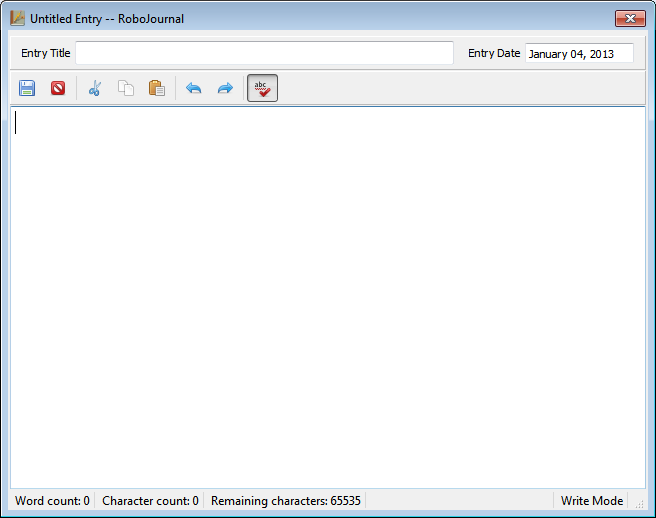
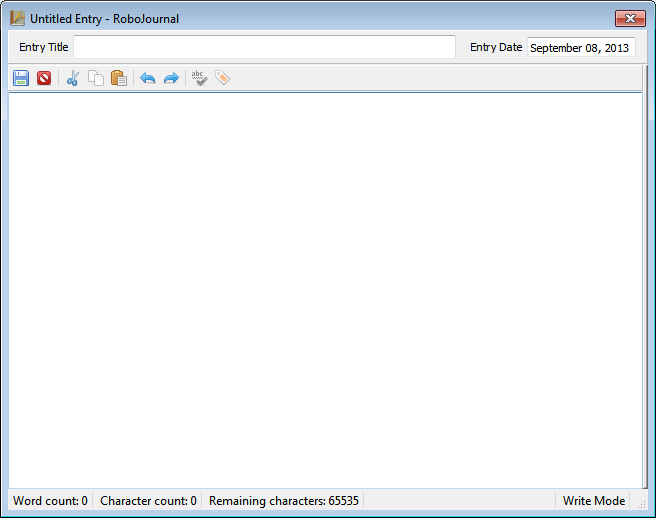
updated items on RoboJournal Fundamentals documentation

Changed region(s): [[0.0, 0.0309, 1.0, 0.9575], [0.0, 0.9575, 0.5488, 0.9884], [0.8537, 0.9575, 0.9756, 0.9884]]

diff --git a/doc/fundamentals.html b/doc/fundamentals.html
@@ -16,7 +16,9 @@
 <div class="content">
 <img src="img/rj_doc_header.png" alt="RoboJournal Documentation"
 class="masthead" height="72" width="606"> 
+
 <p class="doc_version">for version 0.5</p>
+
 <div class="menu">
 <ul>
   <li onclick="javascript:history.go(-1)" class="backbutton">&lt; Back</li>
@@ -64,7 +66,7 @@ displayed:</p>
 
 <p><img alt="RoboJournal Main Window in Default State"
 src="img/screens/mainwindow_default.png" class="screenshot" height="589"
-width="753"><span class="caption_wide">Figure 1: RoboJournal's main window in
+width="750"><span class="caption_wide">Figure 1: RoboJournal's main window in
 "Default State".</span></p>
 
 <p>The initial configuration of the main window (immediately after starting the
@@ -308,7 +310,7 @@ it far easier to keep track of and work with multiple databases.</p>
 <p>To initiate a new connection, click the Connect toolbar button (indicated by
 the red circle in Figure 3). The New Connection dialog is displayed:<br>
 <img alt="Figure 3" src="img/screens/login1.png" class="screenshot"
-height="590" width="753"><span class="caption_wide">Figure 3: New Connection
+height="590" width="752"><span class="caption_wide">Figure 3: New Connection
 Dialog (in MySQL mode).</span> </p>
 
 <p>The New Connection dialog in RoboJournal 0.5 and later consists of a tabbed
@@ -418,7 +420,7 @@ disconnecting first.</p>
 circle in Figure 5) to proceed:</p>
 
 <p><img alt="Figure 5" src="img/screens/mw_disconnect1.png" class="screenshot"
-height="589" width="753"><span class="caption">Figure 5: The
+height="589" width="750"><span class="caption">Figure 5: The
 <strong>Disconnect</strong> toolbar button immediately terminates the current
 connection.</span></p>
 
@@ -444,15 +446,19 @@ close to reaching it. Therefore, feel free to write as often as you want. </p>
   <li>Click the <strong>Write in Journal</strong> toolbar button on the
     RoboJournal main window.<img alt="Figure 6"
     src="img/screens/mw_new_entry.png" class="screenshot" height="589"
-    width="753"><span class="caption">Figure 6: Click the <strong>Write in
+    width="750"><span class="caption">Figure 6: Click the <strong>Write in
     Journal</strong> button (indicated in red).</span></li>
   <li>The Editor dialog is displayed:<img alt="Figure 6"
     src="img/screens/editor_new_entry.png" class="screenshot" height="518"
     width="656"><span class="caption">Figure 7: RoboJournal Editor dialog in
     Write (new entry) Mode.</span></li>
-  <li>Enter a title for this entry in the <strong>Entry Title</strong>
-  field.</li>
-  <li>Write the body text for this entry in the large text area. 
+  <li>Enter a title for this entry in the <strong>Entry Title</strong> field.
+    As you type, the Editor window title bar changes from "Untitled Entry" to
+    match whatever text the <strong>Entry Title</strong> field currently
+    contains.</li>
+  <li>Write the body text for this entry in the large text area. Paragraphs
+    should be separated by whitespace (one empty line). Indenting the first
+    line of each paragraph is optional. 
 
     <div class="FYI">
     <strong>FYI:</strong> The <strong>Character count</strong> and
@@ -463,17 +469,16 @@ close to reaching it. Therefore, feel free to write as often as you want. </p>
     characters must be removed before the entry can be saved).</div>
   </li>
   <li>When finished, click the <strong>Save this Entry</strong> button
-    (indicated by the circled toolbar icon in the following screenshot):<img
-    alt="Figure 8" src="img/screens/editor_new_entry2.png" class="screenshot"
-    height="518" width="656"><span class="caption">Figure 8: The <strong>Save
-    this Entry</strong> toolbar button (button labels have been disabled in
-    RoboJournal Preferences).</span></li>
+    (indicated by the circled toolbar icon in Figure 8):<img alt="Figure 8"
+    src="img/screens/editor_new_entry2.png" class="screenshot" height="518"
+    width="656"><span class="caption">Figure 8: The <strong>Save this
+    Entry</strong> toolbar button.</span></li>
   <li>RoboJournal displays a confirmation message ("<em>entry_title</em>" was
     successfully added to your journal) if the save was successful.</li>
   <li>The new entry is added to the Chronological Entry List. If desired, you
     can click on the new entry to display its contents in the Entry Output
     Pane:<img alt="Figure 9" src="img/screens/mw_new_entry_2.png"
-    class="screenshot" height="589" width="753"><span class="caption">Figure 9:
+    class="screenshot" height="589" width="750"><span class="caption">Figure 9:
     The new entry is displayed in the Chronological Entry List.</span></li>
 </ol>
 
@@ -495,7 +500,7 @@ been saved.</p>
   <li>Select the entry that is to be modified by clicking its node in the
     Chronological Entry List (as shown in the large red oval in Figure 10).
     <img alt="Figure 10" src="img/screens/mw_modify1.png" class="screenshot"
-    height="584" width="750"><span class="caption">Figure 10: Selecting the
+    height="589" width="750"><span class="caption">Figure 10: Selecting the
     entry to be modified.</span></li>
   <li>Click the <strong>Modify Entry</strong> toolbar button (indicated by the
     small red circle in Figure 10). You can visually distinguish the
@@ -525,7 +530,7 @@ been saved.</p>
   <li>If the save was successful, the updated entry is displayed in the Entry
     Output Pane on the RoboJournal main window. <span class="caption"><img
     alt="Figure 13" src="img/screens/mw_modify2.png" class="screenshot"
-    height="584" width="750">Figure 13: The updated entry is shown immediately
+    height="589" width="750">Figure 13: The updated entry is shown immediately
     after the edit process is completed.</span></li>
 </ol>
 
@@ -542,15 +547,15 @@ back up your journal on a regular basis for this reason alone.</p>
     Entry List (shown in the large oval area in Figure 14). </li>
   <li>Click the <strong>Delete Entry</strong> toolbar button (indicated by the
     small circle in Figure 14). <img alt="Figure 14"
-    src="img/screens/mw_delete1.png" class="screenshot" height="584"
+    src="img/screens/mw_delete1.png" class="screenshot" height="589"
     width="750"><span class="caption">Figure 14: Select the entry you wish to
     delete and click the <strong>Delete Entry</strong> button.</span></li>
   <li>A confirmation dialog is displayed as a safety measure. This dialog is
     your last opportunity to cancel the delete operation. Click the
     <strong>OK</strong> button to approve the delete operation or click the
     <strong>Cancel</strong> button to abort. <img alt="Figure 15"
-    src="img/screens/mw_delete2.png" class="screenshot" height="585"
-    width="750"><span class="caption">Figure 15: A confirmation dialog is
+    src="img/screens/mw_delete2.png" class="screenshot" height="589"
+    width="749"><span class="caption">Figure 15: A confirmation dialog is
     displayed if safety protocols are enabled. This is your last chance to
     abort. </span> 
 
@@ -566,7 +571,7 @@ back up your journal on a regular basis for this reason alone.</p>
   <li>You are returned to the main window regardless of your decision in the
     previous step. If you chose to continue with the delete operation, the
     previously-selected entry is gone: <img alt="Figure 16"
-    src="img/screens/mw_delete3.png" class="screenshot" height="584"
+    src="img/screens/mw_delete3.png" class="screenshot" height="589"
     width="750"><span class="caption">Figure 16: The entry you deleted is no
     longer displayed in the Chronological Entry List.</span></li>
 </ol>
@@ -580,7 +585,7 @@ to browse adjacent entries in the current journal if you wish to read it in a
 chronological fashion. This is accomplished by clicking the <strong>Previous
 Entry</strong> and <strong>Next Entry</strong> toolbar buttons on the
 RoboJournal main window:<img alt="Figure 17"
-src="img/screens/mw_navigation1.png" class="screenshot" height="585"
+src="img/screens/mw_navigation1.png" class="screenshot" height="589"
 width="750"><span class="caption">Figure 17: The <strong>Previous
 Entry</strong> and <strong>Next Entry</strong> buttons allow easy sequential
 browsing.</span></p>
@@ -598,10 +603,10 @@ because the latest entry is already being displayed). </p>
 <p>You can use the <strong>Latest Entry</strong> toolbar button (indicated by
 the red circle in Figure 18) to immediately jump to the most recent entry in
 the database:<img alt="Figure 18" src="img/screens/mw_navigation2.png"
-class="screenshot" height="585" width="750"><span class="caption">Figure 18:
-You can use the <strong>Latest Entry</strong> button to display the newest
-entry at any time. RoboJournal can also be configured to display the latest
-entry by default.</span></p>
+class="screenshot" height="589" width="750"><span class="caption">Figure 18:
+Clicking the <strong>Latest Entry</strong> button always displays the first
+(most recent) item in the Chronological Entry List. RoboJournal can also be
+configured to display the latest entry by default.</span></p>
 
 <h2 id="tag_entry">Tagging an Entry</h2>
 

diff --git a/doc/arguments.html b/doc/arguments.html
@@ -30,7 +30,7 @@ alt="RoboJournal Documentation" class="masthead">
 <div class="main_text">
 <h1>Appendix B: RoboJournal Program Arguments</h1>
 
-<h2 id="L1798">Contents</h2>
+<h2 id="L1798">Sections</h2>
 <ol class="toc">
   <li><a href="#L1810">Overview</a></li>
   <li><a href="#L1584">Date Override</a> 
@@ -48,11 +48,13 @@ alt="RoboJournal Documentation" class="masthead">
 <h2 id="L1810">Overview</h2>
 
 <p>RoboJournal is capable of receiving additional arguments prior to launch.
-These arguments are meant to be manually entered at a command line (i.e. Bash
-prompt on Linux/Unix or cmd.exe on Windows) or through a program launch window
-(such as the Run Command on Windows). </p>
+Many programs, especially those without graphical user interfaces, utilize
+arguments (also known as "switches" on some operating systems) to set program
+behavior in advance. These arguments are usually entered at a command line
+(i.e. Bash prompt on Linux/Unix or cmd.exe on Windows) or through a program
+launch window (such as the Run Command on Windows). </p>
 
-<p>Invoking arguments is inherently easier on Linux because command prompts are
+<p>Using arguments is inherently easier on Linux because command prompts are
 far more accessible. For instance, pressing the ALT and F2 keys simultaneously
 displays a "Run Program" dialog on common desktop environments like KDE or
 GNOME/MATE. On Windows XP and older, the "Run" option on the Start Menu was the
@@ -61,7 +63,10 @@ the Run Command still exists but is hidden by default. As such, you must <a
 href="http://windows.microsoft.com/en-us/windows7/what-happened-to-the-run-command">re-enable</a>
 (Windows 8 method <a
 href="http://windows.microsoft.com/en-us/windows-8/where-is-run-command">here</a>)
-the Run Command before you can launch RoboJournal with custom arguments.</p>
+the Run Command before you can launch RoboJournal with custom arguments.
+Furthermore, most Windows programs are designed to be more user-friendly and
+therefore rely less on esoteric arguments in favor of more comprehensive
+controls in a program's user interface. </p>
 
 <h2 id="L1584">Date Override</h2>
 
@@ -69,7 +74,10 @@ the Run Command before you can launch RoboJournal with custom arguments.</p>
 entries created during that session. However, you can force RoboJournal 0.5
 (and later) to use an alternate date for new entries with a hidden but useful
 function that is activated prior to the current session. This function is
-universally referred to as the "date override" in this documentation.</p>
+universally referred to as the "date override" in this documentation. Date
+override can only be activated through program arguments because it has the
+potential to be dangerous; requiring the user to enter the date override by
+hand each time is meant to be a safeguard against overuse.</p>
 
 <p>The date override allows you to set a false date of origin for entries
 written during a session in which date override is active. For instance, you
@@ -77,8 +85,9 @@ can use the date override to make it appear as though an entry was written on
 12/31/2013 even if you actually wrote it on 1/1/2014. This can be useful in
 situations where your duties require you to keep a daily log. If you forget to
 write an entry for one or more days, you can use the date override to "fill in"
-the missing entries at a later time. Date override does not affect the dates of
-entries that are edited during the session. </p>
+the missing entries at a later time. Date override only affects new entries
+created during the session; existing entries keep their original dates if you
+edit them while date override is active.</p>
 
 <div class="FYI">
 <strong>FYI:</strong> The date override is convenient in situations where it is
@@ -89,19 +98,21 @@ saved. <strong><em>Never</em></strong> use the date override to insert a new
 entry between other entries at a previous point in the timeline or at a future
 date (doing either action always causes database corruption).</div>
 
-<p>When the date override is active, RoboJournal always displays a warning
-message after each login:<img alt="Figure 1"
-src="img/screens/date_override1.png" width="749" height="590" title="Figure 1"
-class="screenshot"><span class="caption">Figure 1: A notification/warning
-message is shown at the start of each connection while date override is active.
-</span></p>
+<p>RoboJournal always displays a warning message after each login when date
+override is active:<img alt="Figure 1" src="img/screens/date_override1.png"
+width="749" height="590" title="Figure 1" class="screenshot"><span
+class="caption">Figure 1: A notification/warning message is shown at the start
+of each connection while date override is active. </span></p>
 
 <h3 id="L1609">Proper Syntax</h3>
 
 <p>You can trigger the date override feature by appending <span
 class="console">--date-override=mm-dd-yyyy</span> to the RoboJournal executable
 path (for instance, <span class="console">C:\Program Files
-(x86)\RoboJournal\robojournal.exe --date-override=mm-dd-yyyy</span>). The <span
+(x86)\RoboJournal\robojournal.exe --date-override=mm-dd-yyyy</span>). For the
+argument to be recognized, you must always include <em>one</em> space between
+the executable name ("../robojournal.exe" or "robojournal") and <span
+class="console">--date-override</span>. The <span
 class="console">mm-dd-yyyy</span> portion of the argument refers to the date
 you want to use (in mm/dd/yyyy format) instead of the current date. For
 instance, you could use <span class="console">--date-override=01-01-2013</span>
@@ -113,18 +124,19 @@ February 30 does not exist in any year. RoboJournal ignores the date override
 argument and operates normally if the specified date is invalid and/or the
 argument syntax is incorrect. You can separate the month, day, and year values
 in the date with hyphens or forward slashes (but not a mix of both). The
-following sections demonstrate the correct syntax and usage for Winows and
+following sections demonstrate the correct syntax and usage for Windows and
 Unix-like operating systems (such as Linux):</p>
 
 <h4 id="L1622">Enabling Date Override on Windows</h4>
 
 <p>Windows does not accept the <span class="console">--date-override</span>
-argument when the program is launched through a desktop shortcut. The only way
-to initiate date override from Windows is through the Run Command window on the
-Windows Start menu:<img alt="Figure 2" src="img/screens/date_override_win1.png"
-width="413" height="212" title="Figure 2" class="screenshot"><span
-class="caption">Figure 2: Under the current settings, RoboJournal's date
-override is set for September 3, 2013.</span></p>
+argument when the program is launched through a desktop or Start Menu shortcut.
+Therefore, the only way to initiate date override from Windows is through the
+Run Command window on the Windows Start menu:<img alt="Figure 2"
+src="img/screens/date_override_win1.png" width="413" height="212"
+title="Figure 2" class="screenshot"><span class="caption">Figure 2: Under the
+current settings, RoboJournal's date override is set for September 3,
+2013.</span></p>
 
 <div class="FYI">
 <strong>FYI: </strong>Windows usually puts quotation marks around commands in

diff --git a/core/htmlcore.cpp b/core/htmlcore.cpp
@@ -122,6 +122,9 @@ QString HTMLCore::Do_Post_Processing(QString rawtext, int wordcount){
         // replace 2 >= adjacent dashes with a clean mdash
         body=body.replace(QRegExp("\\s*-{2,}\\s*"),"&mdash;");
 
+        //recognize and process tab stops (new for 0.5). --Will Kraft, 9/8/13.
+        body=body.replace("\t","&nbsp;&nbsp;&nbsp;&nbsp;&nbsp;");
+
 
 
         //use En Dash for digits

diff --git a/ui/editor.cpp b/ui/editor.cpp
@@ -601,6 +601,9 @@ void Editor::LoadEntry(QString entry){
         body=body.replace("&rsquo;","\'");
         body=body.replace(QRegExp("</?sup>"),"");
 
+        //0.5 bugfix (9/8/13) Convert nbsp back to tab stops.
+        body=body.replace(QRegExp("&nbsp;&nbsp;&nbsp;&nbsp;&nbsp;"), "\t");
+
         ui->EntryTitle->setText(list.at(0));
 
         if(Buffer::use_spellcheck){
